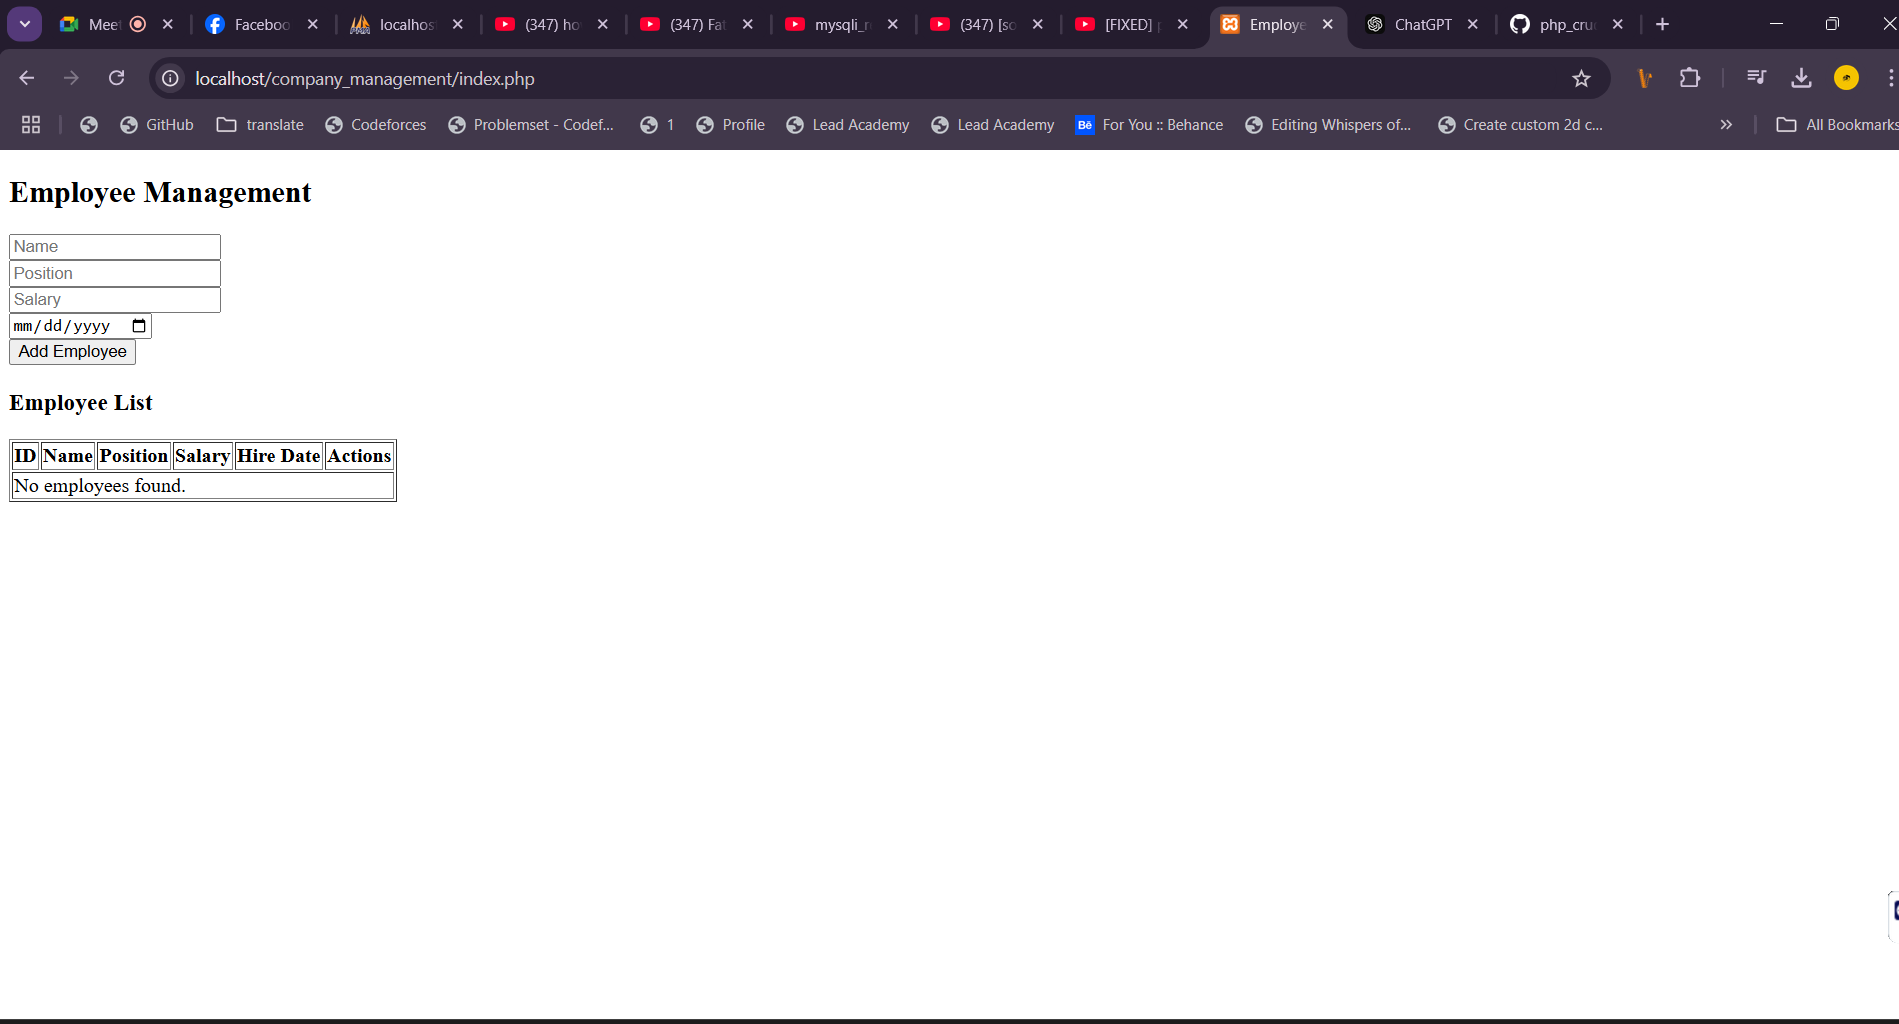
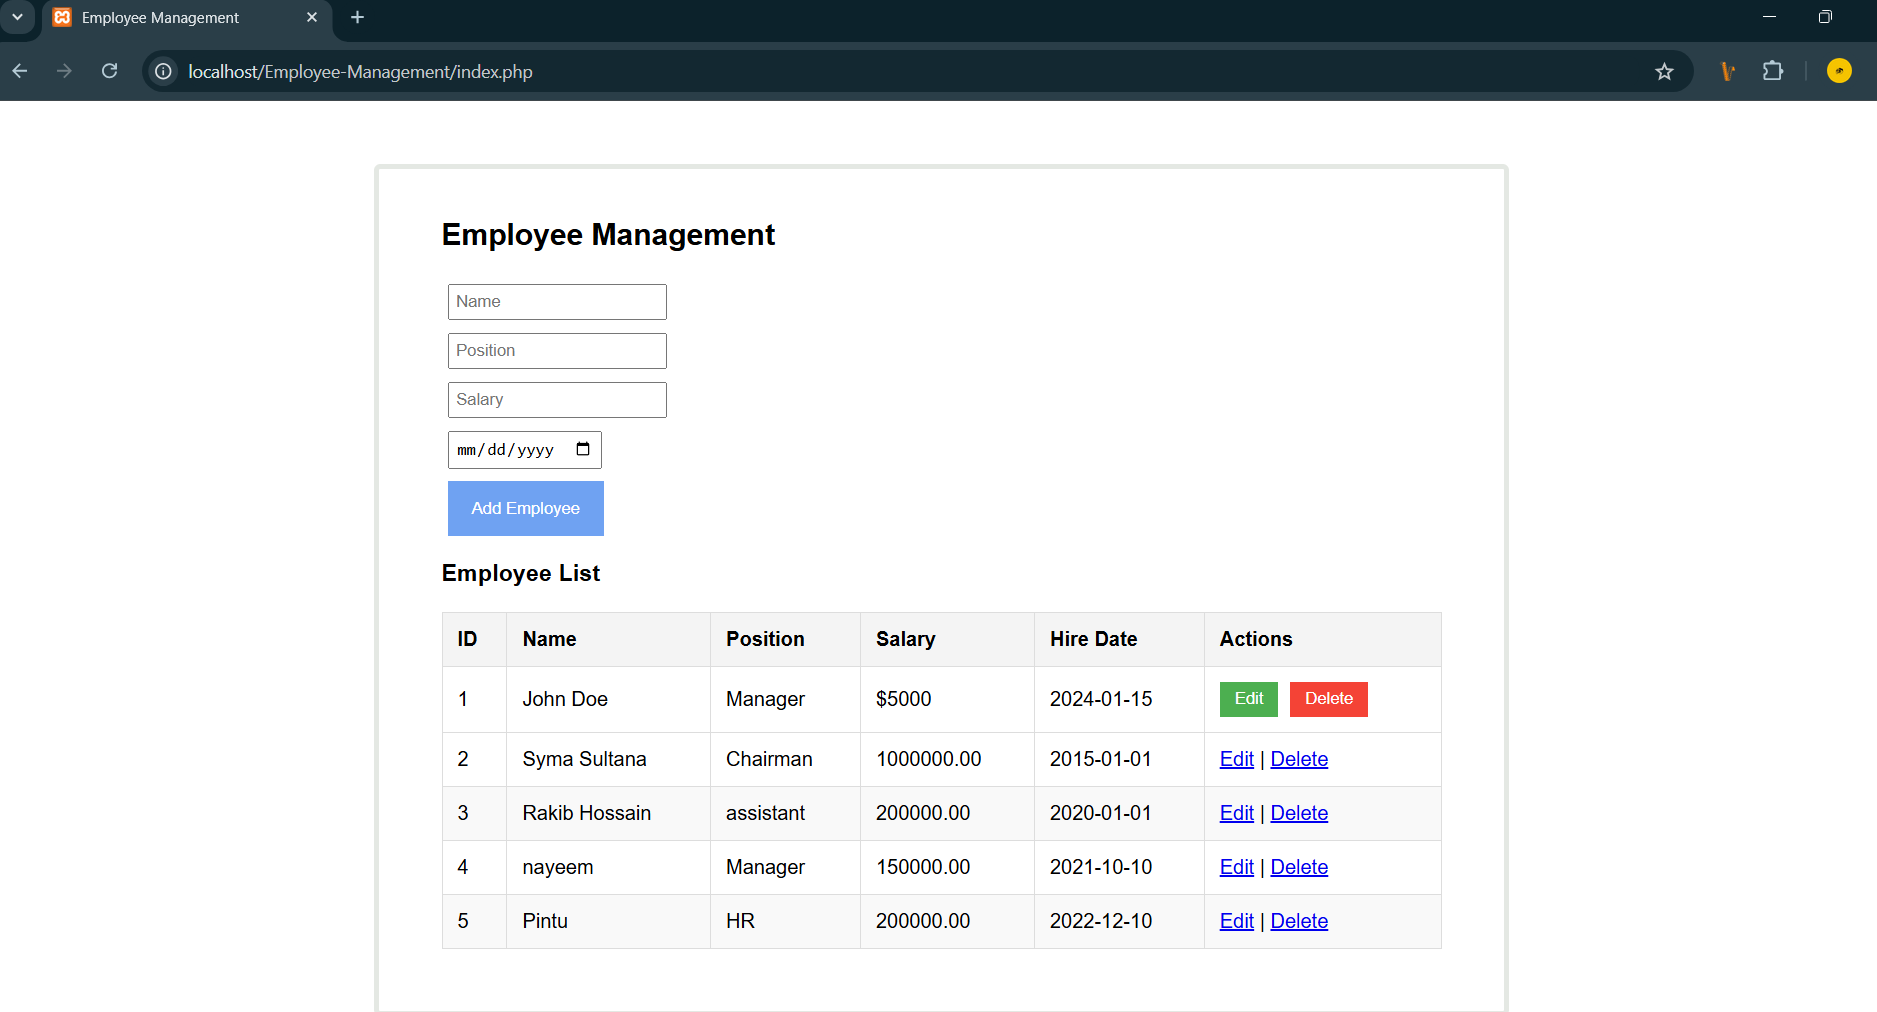
final checkup

diff --git a/index.php b/index.php
@@ -12,6 +12,85 @@ $result = $conn->query($sql);
     <meta charset="UTF-8">
     <meta name="viewport" content="width=device-width, initial-scale=1.0">
     <title>Employee Management</title>
+    <style>
+    body {
+        font-family: Arial, sans-serif;
+    }
+
+    .employee-table {
+        width: 100%;
+        border-collapse: collapse;
+        margin-top: 20px;
+    }
+
+    .employee-table th,
+    .employee-table td {
+        padding: 12px;
+        text-align: left;
+        border: 1px solid #ddd;
+    }
+
+    .employee-table th {
+        background-color: #f4f4f4;
+    }
+
+    .employee-table tr:nth-child(even) {
+        background-color: #f9f9f9;
+    }
+
+    .employee-table tr:hover {
+        background-color: #f1f1f1;
+    }
+
+    .edit-btn,
+    .delete-btn {
+        padding: 6px 12px;
+        border: none;
+        cursor: pointer;
+        color: #fff;
+        margin-right: 5px;
+    }
+
+    .edit-btn {
+        background-color: #4caf50;
+    }
+
+    .delete-btn {
+        background-color: #f44336;
+    }
+
+    .edit-btn:hover {
+        background-color: #45a049;
+    }
+
+    .delete-btn:hover {
+        background-color: #e53935;
+    }
+    form input{
+        margin: 5px;
+        padding: 5px;
+    }
+    form button{
+        margin: 5px 0 0 5px;
+        padding: 10px 15px;
+        background-color: #6fa2f2;
+        border: 4px solid #6fa2f2;
+        color: white;
+    }
+    body{
+        max-width: 800px;
+        margin: auto;
+        border: 4px solid white;
+        border-radius: 5px;
+        border-color: #e4e8e3;
+        margin-top: 50px;
+        padding: 20px 50px 50px 50px;
+        
+        
+    }
+
+    
+</style>
 </head>
 <body>
 
@@ -26,15 +105,31 @@ $result = $conn->query($sql);
 </form>
 
 <h3>Employee List</h3>
-<table border="1">
-    <tr>
-        <th>ID</th>
-        <th>Name</th>
-        <th>Position</th>
-        <th>Salary</th>
-        <th>Hire Date</th>
-        <th>Actions</th>
-    </tr>
+<table border="1" class="employee-table">
+<thead>
+        <tr>
+            <th>ID</th>
+            <th>Name</th>
+            <th>Position</th>
+            <th>Salary</th>
+            <th>Hire Date</th>
+            <th>Actions</th>
+        </tr>
+    </thead>
+    <tbody>
+        <tr>
+            <td>1</td>
+            <td>John Doe</td>
+            <td>Manager</td>
+            <td>$5000</td>
+            <td>2024-01-15</td>
+            <td>
+                <button class="edit-btn">Edit</button>
+                <button class="delete-btn">Delete</button>
+            </td>
+        </tr>
+        <!-- Add more rows as needed -->
+    </tbody>
 
     <?php if ($result->num_rows > 0) {
         while ($row = $result->fetch_assoc()) { ?>
@@ -54,8 +149,11 @@ $result = $conn->query($sql);
             <td colspan="6">No employees found.</td>
         </tr>
     <?php } ?>
+
+    
 </table>
 
 <?php $conn->close(); ?>
 </body>
+
 </html>

diff --git a/README.md b/README.md
@@ -14,9 +14,9 @@ A web-based Employee Management System built with PHP and MySQL, designed to per
 
 ## Technologies Used
 
-- **Backend**: PHP, MySQL.
-- **Frontend**: HTML, CSS, JavaScript.
-- **Server**: XAMPP for local development.
+- **Backend**: PHP, MySQL
+- **Frontend**: HTML, CSS, JavaScript
+- **Server**: XAMPP for local development
 
 ## Installation
 
